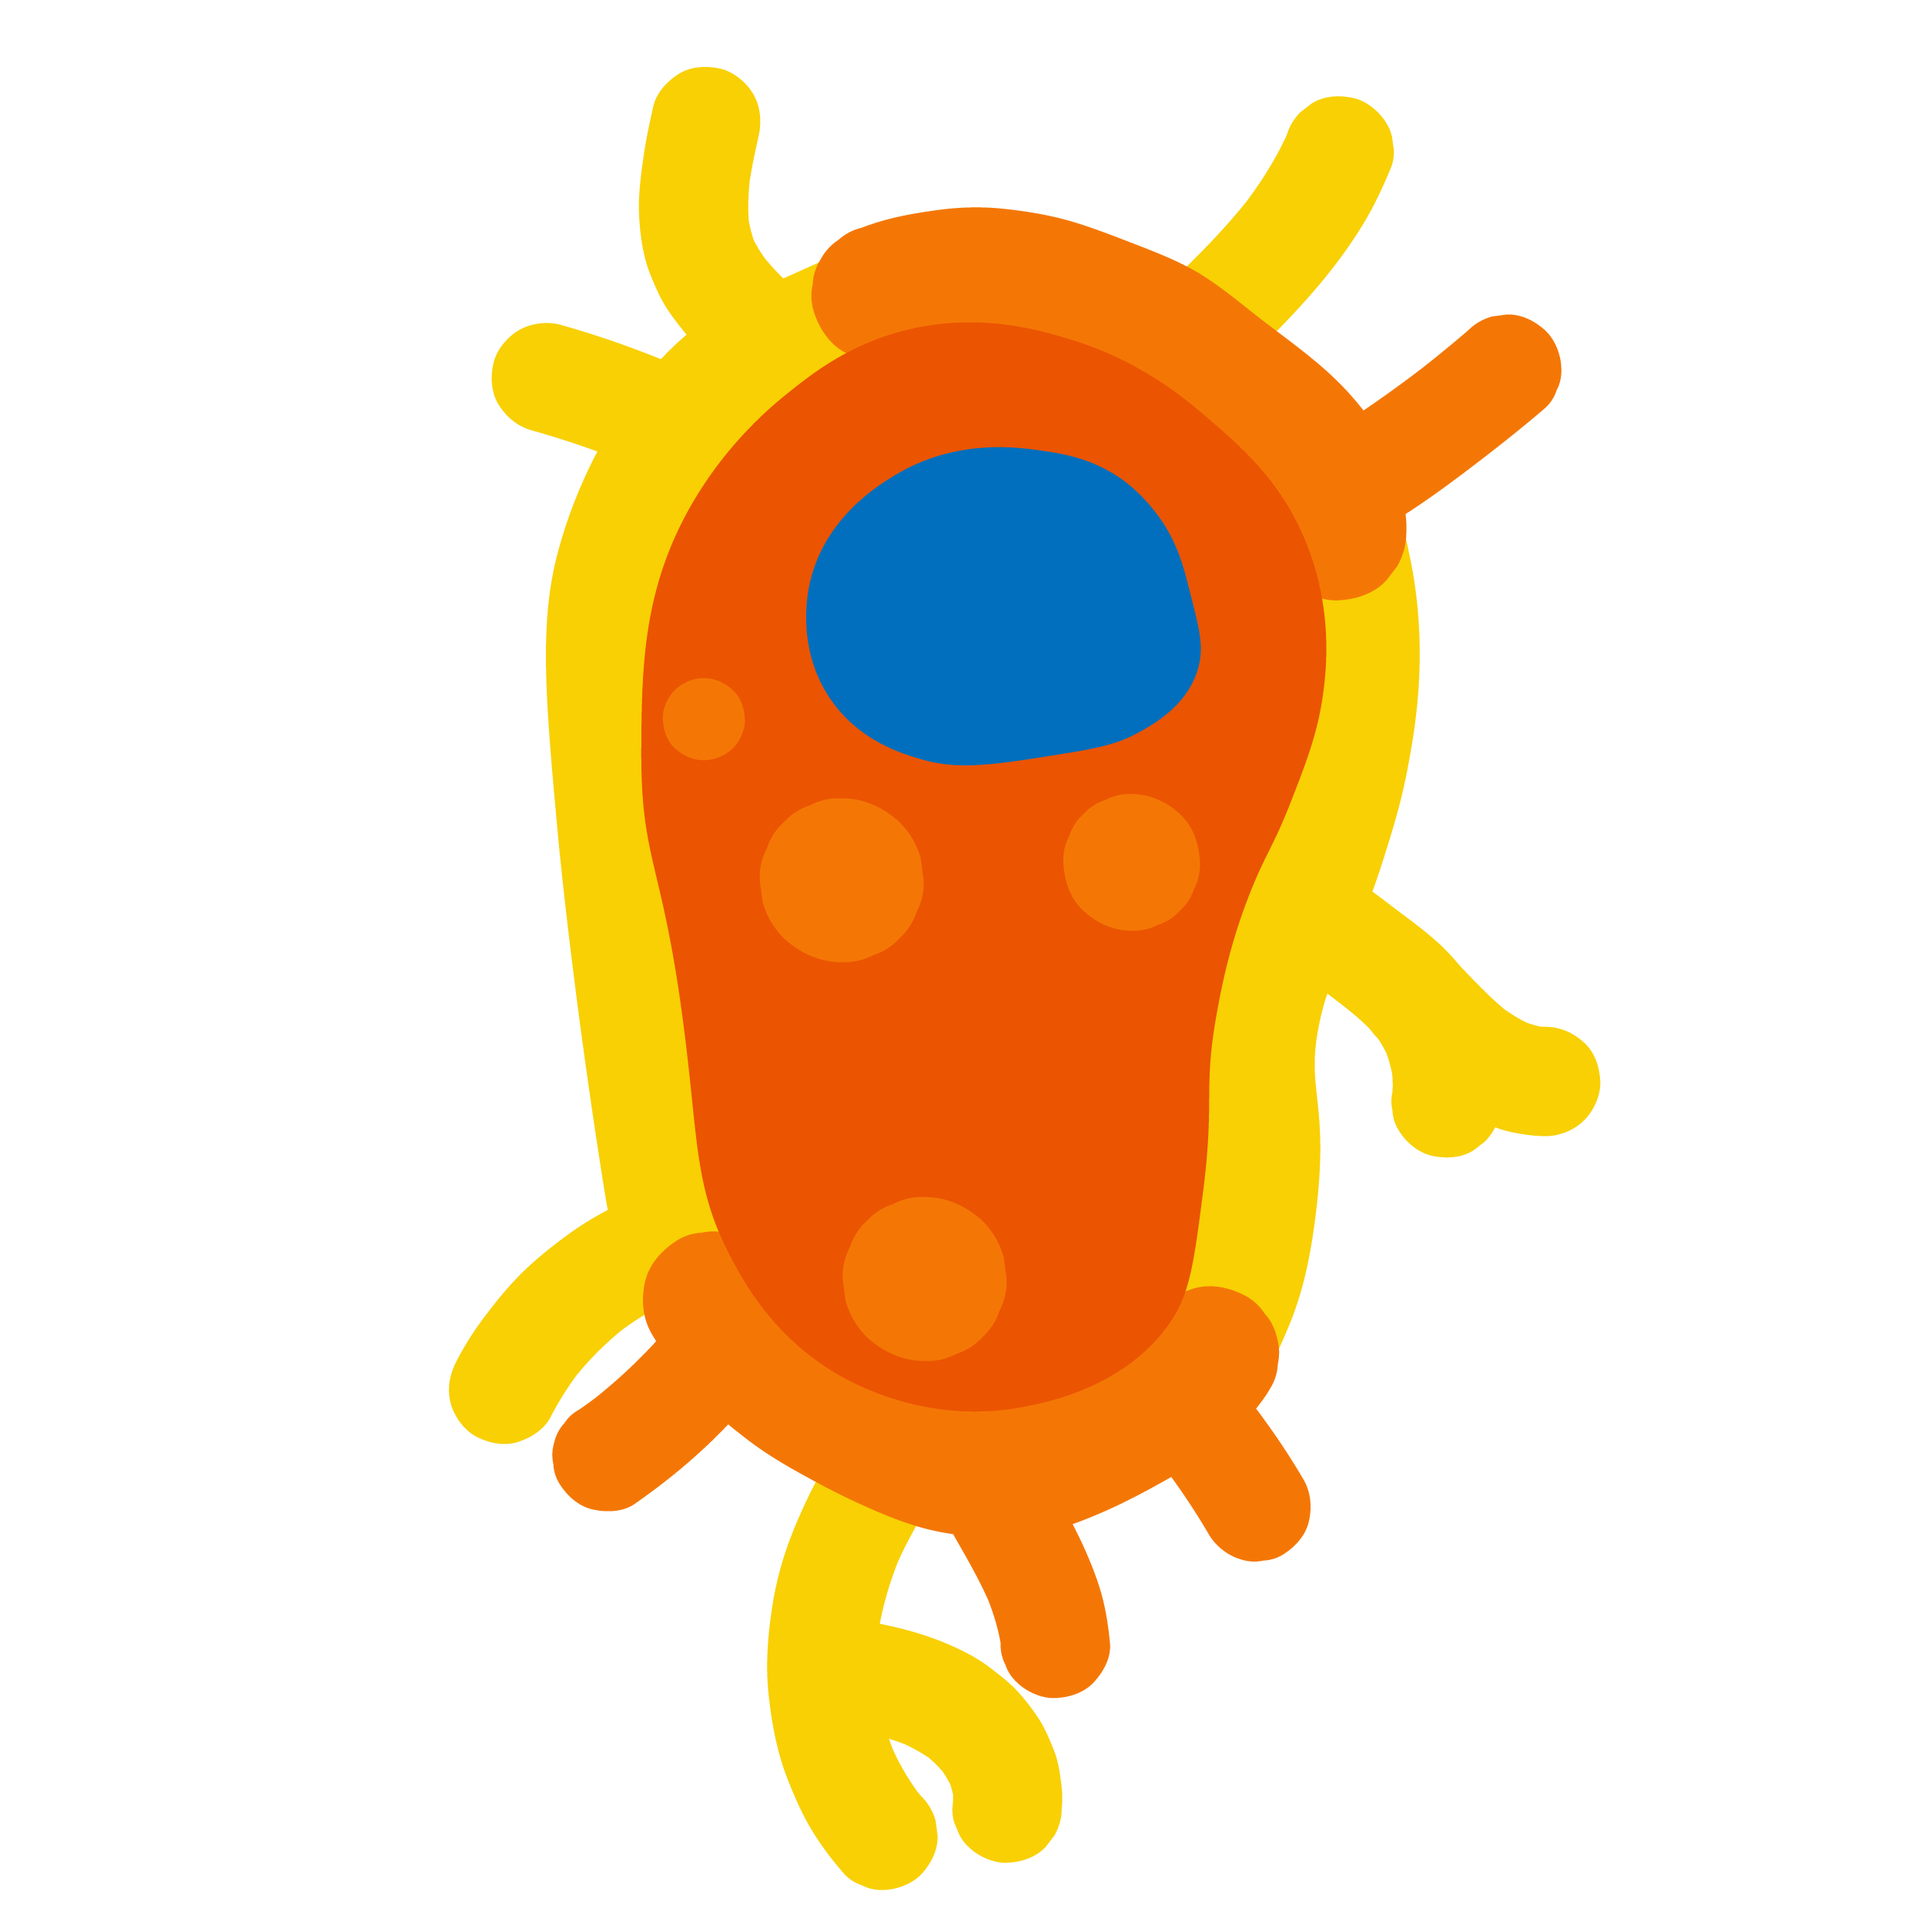
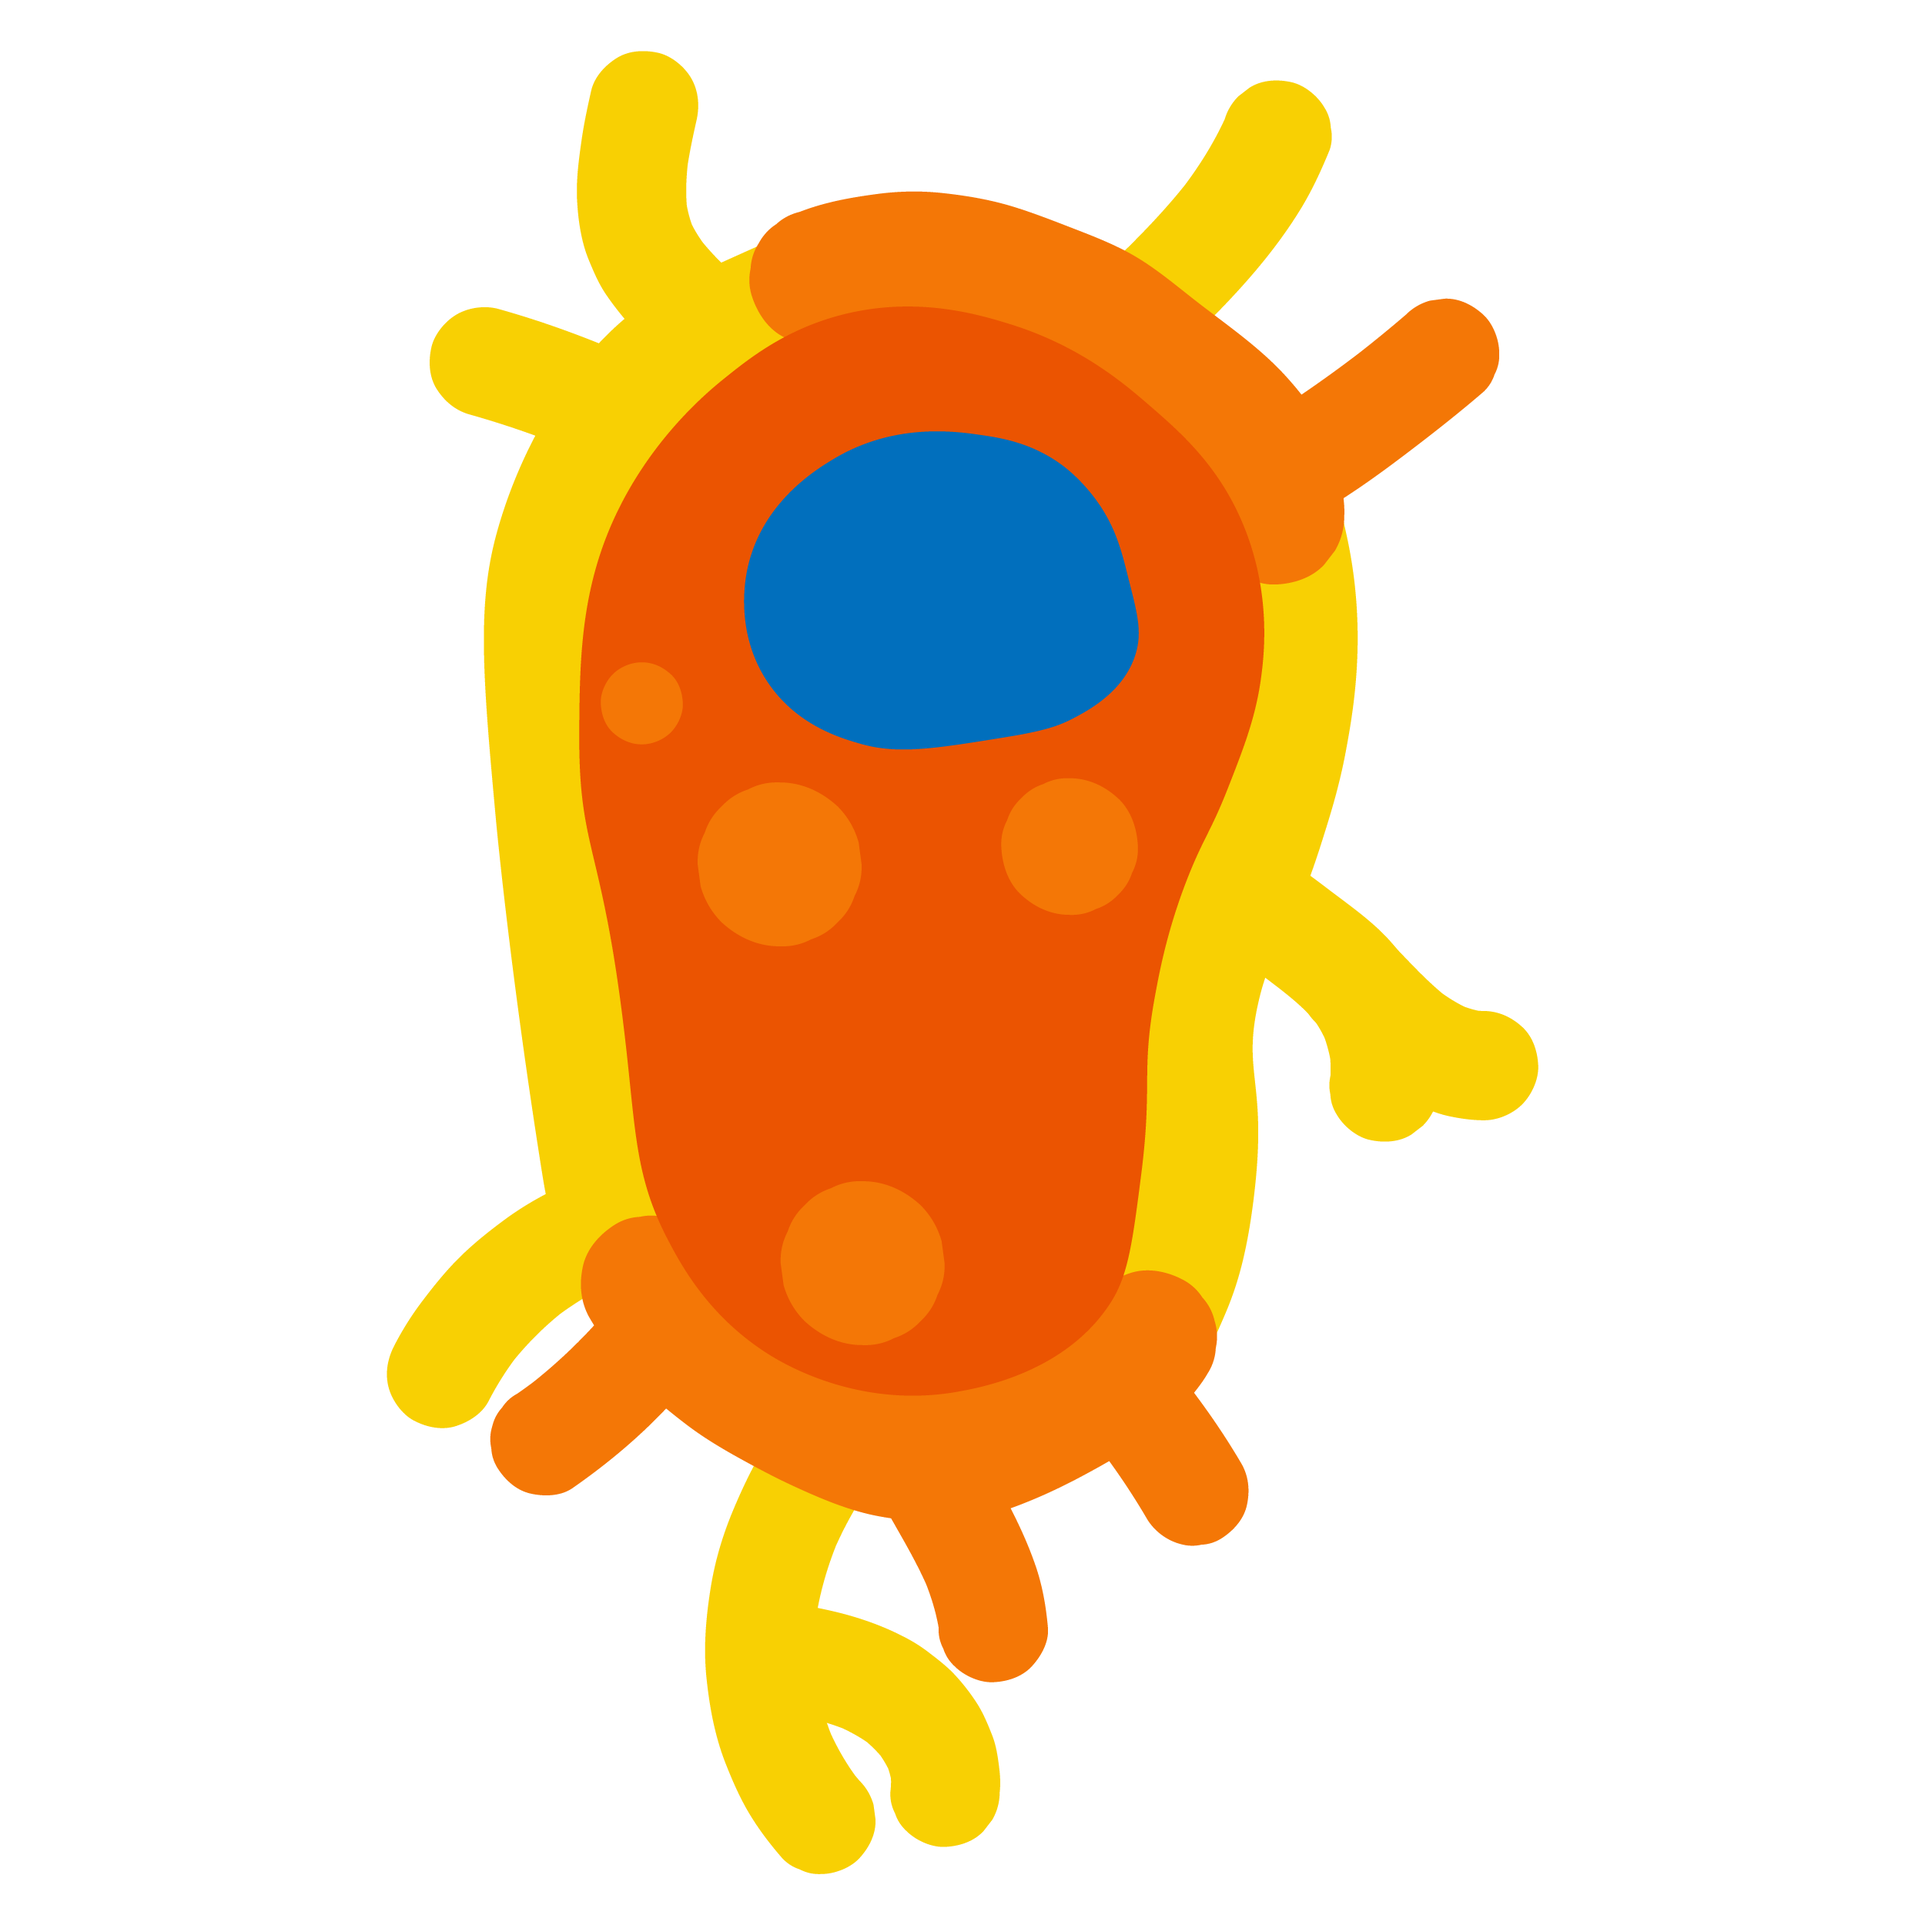
[t-cell] Created script for changing sprites. Added states to Macrophage (angry/normal/disabled). The sprite for the Macrophage now changes based on its state.

Changed region(s): [[0.1872, 0.0312, 0.8424, 0.9984]]

diff --git a/Immunity Game/Assets/Scripts/Behaviour Scripts/Macrophage.cs b/Immunity Game/Assets/Scripts/Behaviour Scripts/Macrophage.cs
@@ -6,6 +6,13 @@ using UnityEngine;
 
 namespace Behaviour_Scripts
 {
+    enum State
+    {
+        normal=0,
+        disabled=1,
+        angry=2
+    }
+
     public class Macrophage : MonoBehaviour
     {
         // Serialized fields
@@ -21,18 +28,49 @@ namespace Behaviour_Scripts
         public Vector2 spawnTarget;
         private bool _reachedSpawnTarget = false;
 
+        public GameObject sprite;
+        private SpriteManager spriteManager; 
+
+        private State state = State.normal;
+
         private void Start()
         {
             _bacteriaSmall = BacteriaSmallManager.Instance.pooledBacterias;
             _bacteriaLarge = BacteriaLargeManager.Instance.pooledBacterias;
 
             _bacteria = _bacteriaLarge.Concat(_bacteriaSmall).ToArray();
+
+            spriteManager = sprite.GetComponent<SpriteManager>();
         }
 
         void Update()
         {
             if (GameManager.instance.IsPaused) return;
-            if (killsLeft <= 0) return;
+
+            // update state and sprite based on kill count
+            if (killsLeft > 100) {
+                if (state != State.angry) {
+                    state = State.angry;
+                    spriteManager.changeSprite((int) State.angry);
+                }
+            } else if (killsLeft <= 100 && killsLeft > 0) {
+                if (state != State.normal) {
+                    state = State.normal;
+                    spriteManager.changeSprite((int) State.normal);
+                }
+            } else {
+                if (state != State.disabled) {
+                    state = State.disabled;
+                    spriteManager.changeSprite((int) State.disabled);
+                } 
+            }
+
+            // check if the macrophage is disabled before proceeding
+            if (state == State.disabled) {
+                return;
+            }
+
+
             if (!_reachedSpawnTarget)
             {
                 float step = movementSpeed * Time.deltaTime;
@@ -68,7 +106,9 @@ namespace Behaviour_Scripts
                 if (distanceToTarget < 60f)
                 {
                     _target.SetActive(false);
-                    killsLeft -= 1;
+                    if (killsLeft > 0 ) {
+                        killsLeft -= 1;
+                    }
                     FindTarget();
                 }
             }

diff --git a/Immunity Game/Assets/Scripts/SpriteManager.cs b/Immunity Game/Assets/Scripts/SpriteManager.cs
@@ -1,0 +1,29 @@
+using System.Collections;
+using System.Collections.Generic;
+using UnityEngine;
+
+public class SpriteManager : MonoBehaviour
+{
+    private SpriteRenderer spriteRenderer;
+    public Sprite[] spriteArray;
+
+
+    // Start is called before the first frame update
+    void Start()
+    {
+        // Get the SpriteRenderer of the GameObject
+        spriteRenderer = gameObject.GetComponent<SpriteRenderer>();
+    }
+
+    // Update is called once per frame
+    void Update()
+    {
+        
+    }
+
+    // Changes the sprite of the SpriteRenderer to the specified index in the Sprite array
+    public void changeSprite(int index)
+    {
+        spriteRenderer.sprite = spriteArray[index];
+    }
+}
